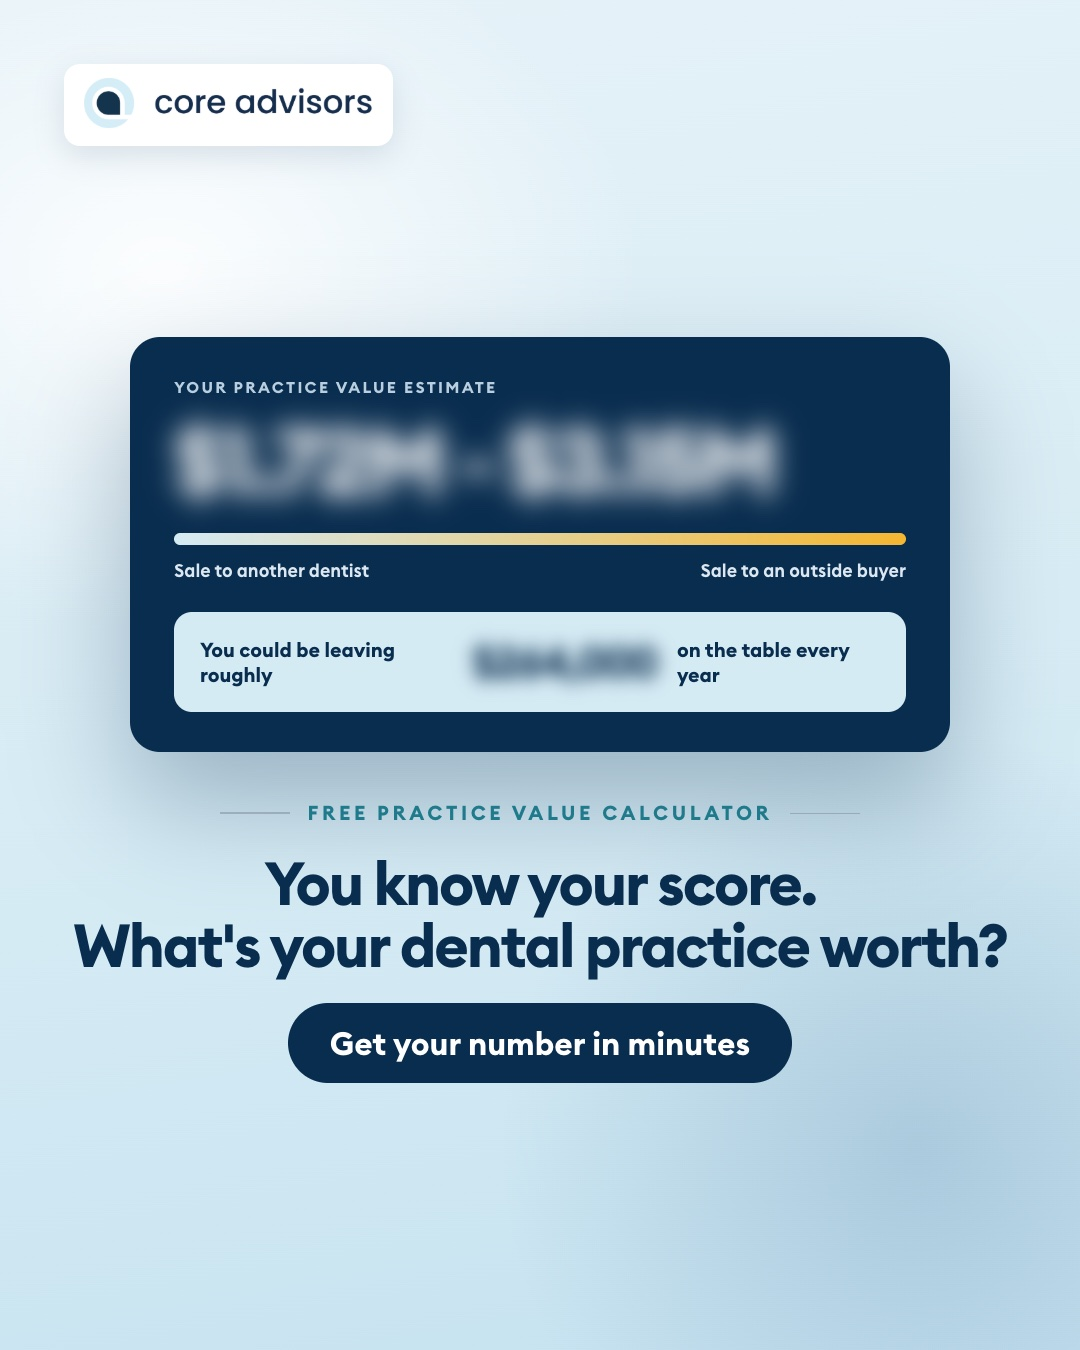
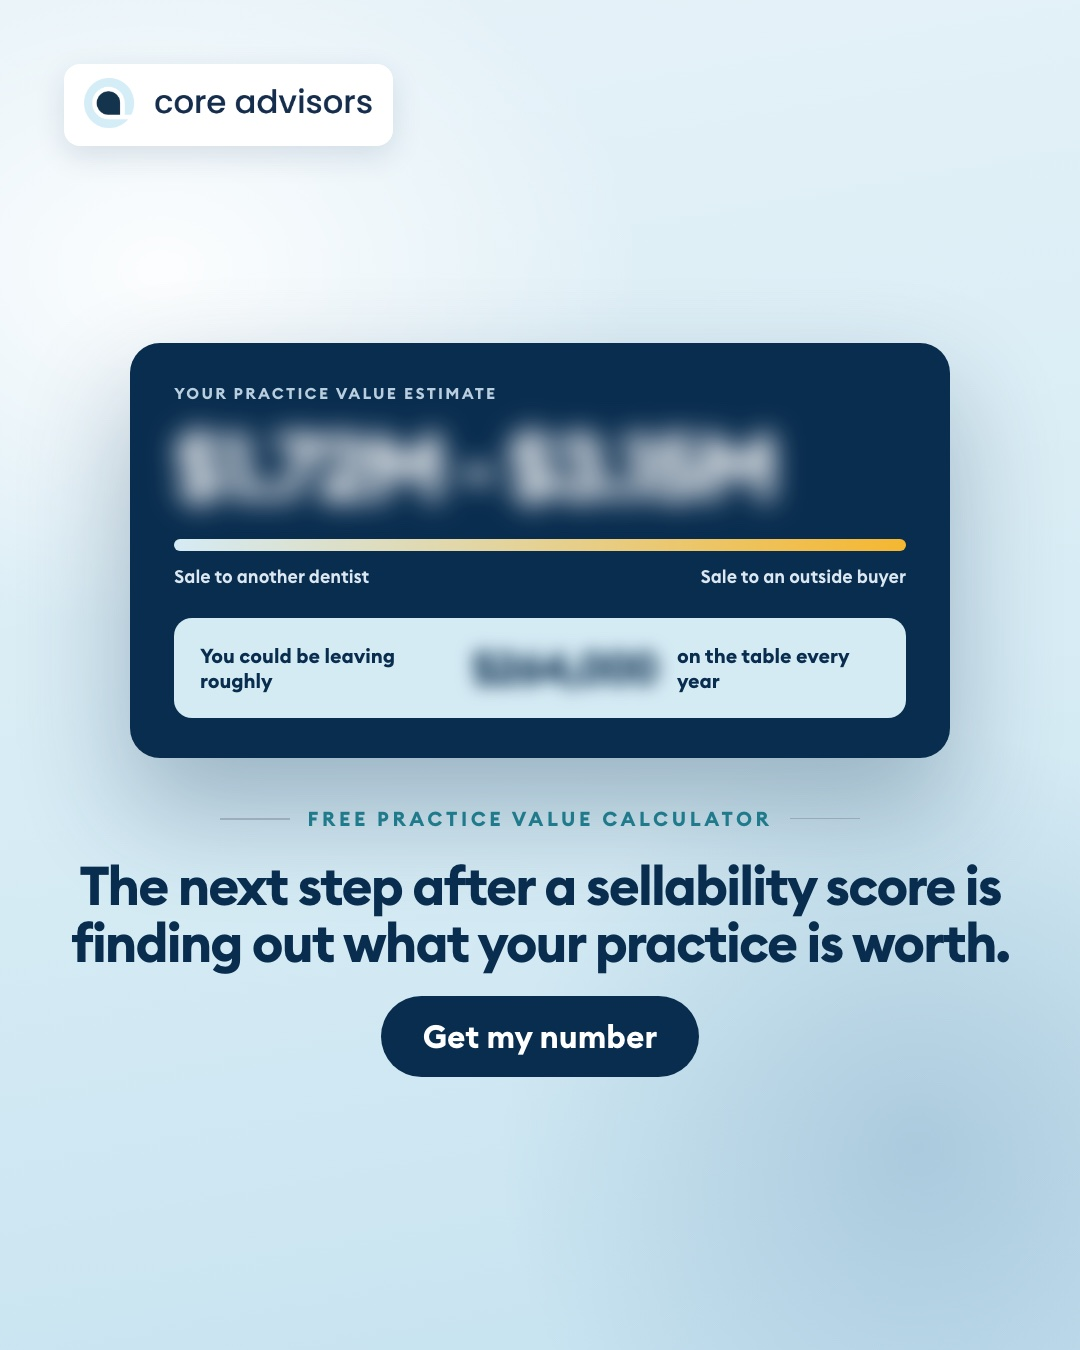
Core Advisors exit ads: rewritten copy on art and in posts, no ad badges

Changed region(s): [[0.1222, 0.2489, 0.8861, 0.56], [0.0611, 0.5911, 0.9472, 0.8089]]

diff --git a/core-advisors/meta-exit-planning-ads/index.html b/core-advisors/meta-exit-planning-ads/index.html
@@ -54,100 +54,91 @@ body{background:var(--fbbg);color:var(--ink);font-family:-apple-system,BlinkMacS
 <div class="title"><b>Core Advisors · Exit planning ads</b>How the nine ads will look in the Facebook feed. Tap "See more" to read the full text.</div>
 <div class="post filler" aria-hidden="true"><div class="ph"><span class="fav"></span><span><i style="width:110px"></i><i style="width:60px"></i></span></div>
 <div class="lines"><i style="width:72%"></i><i style="width:52%"></i></div><div class="fimg f0"></div><div class="bar"></div></div>
-<div class="tag">S0 · Sellability</div>
 <article class="post ad" id="s0">
 <div class="ph"><span class="av"><img src="img/logo-white.png" alt=""></span><span class="who"><b>Core Advisors</b><small>Sponsored · <svg viewBox="0 0 16 16" width="11" height="11"><circle cx="8" cy="8" r="6.5" fill="none" stroke="currentColor" stroke-width="1.4"/><path d="M1.5 8h13M8 1.5c2 2 2 11 0 13M8 1.5c-2 2-2 11 0 13" fill="none" stroke="currentColor" stroke-width="1.2"/></svg></small></span><span class="dots">···</span></div>
-<p class="primary"><span class="short">Two practices can carry the same price tag. Buyers still pick one and pass on the other. Ten questions about how... <button class="more" type="button">See more</button></span><span class="full">Two practices can carry the same price tag. Buyers still pick one and pass on the other. Ten questions about how yours runs, not what it earns, show you what a buyer sees and the first three things to fix. It takes about two minutes.</span></p>
+<p class="primary"><span class="short">When you sell a house, a realtor walks through and points out the few things that will bring in more offers. Selling... <button class="more" type="button">See more</button></span><span class="full">When you sell a house, a realtor walks through and points out the few things that will bring in more offers. Selling a practice works the same way. A buyer will look at whether your team can run a day without you and whether your referrals come to you or to the practice. Our free check walks you through what they look at and shows you the first three things we&#x27;d fix, so you have time to fix them before you sell.</span></p>
 <img class="creative" src="img/S0-two-chairs-one-offer-1080x1350.jpg" alt="S0 ad creative" loading="lazy">
-<div class="link"><div><small>COREADVISORS.COM</small><b>Would a buyer choose yours?</b></div><span class="btn">Learn more</span></div>
+<div class="link"><div><small>COREADVISORS.COM</small><b>What would a buyer want you to fix?</b></div><span class="btn">Learn more</span></div>
 <div class="reacts"><span><em class="r1"></em><em class="r2"></em> 24</span><span>3 comments · 2 shares</span></div>
 <div class="acts"><span>👍 Like</span><span>💬 Comment</span><span>↗ Share</span></div>
 </article>
 <div class="post filler" aria-hidden="true"><div class="ph"><span class="fav"></span><span><i style="width:117px"></i><i style="width:60px"></i></span></div>
 <div class="lines"><i style="width:88%"></i><i style="width:68%"></i></div><div class="fimg f1"></div><div class="bar"></div></div>
-<div class="tag">S1 · Sellability</div>
 <article class="post ad" id="s1">
 <div class="ph"><span class="av"><img src="img/logo-white.png" alt=""></span><span class="who"><b>Core Advisors</b><small>Sponsored · <svg viewBox="0 0 16 16" width="11" height="11"><circle cx="8" cy="8" r="6.5" fill="none" stroke="currentColor" stroke-width="1.4"/><path d="M1.5 8h13M8 1.5c2 2 2 11 0 13M8 1.5c-2 2-2 11 0 13" fill="none" stroke="currentColor" stroke-width="1.2"/></svg></small></span><span class="dots">···</span></div>
-<p class="primary"><span class="short">Two practices can carry the same price tag. Buyers still pick one and pass on the other. Ten questions about how... <button class="more" type="button">See more</button></span><span class="full">Two practices can carry the same price tag. Buyers still pick one and pass on the other. Ten questions about how yours runs, not what it earns, show you what a buyer sees and the first three things to fix. It takes about two minutes.</span></p>
+<p class="primary"><span class="short">A buyer usually pays a set multiple of your profit, so the real question is whether they choose your practice or the... <button class="more" type="button">See more</button></span><span class="full">A buyer usually pays a set multiple of your profit, so the real question is whether they choose your practice or the one down the road. That choice comes down to how your practice runs, and most of it can be improved years before you sell. Our free check gives you a score out of 100 in about two minutes, along with the first three things we&#x27;d work on.</span></p>
 <img class="creative" src="img/S1-three-practices-1080x1350.jpg" alt="S1 ad creative" loading="lazy">
-<div class="link"><div><small>COREADVISORS.COM</small><b>Would a buyer choose yours?</b></div><span class="btn">Learn more</span></div>
+<div class="link"><div><small>COREADVISORS.COM</small><b>Would a buyer pick your practice?</b></div><span class="btn">Learn more</span></div>
 <div class="reacts"><span><em class="r1"></em><em class="r2"></em> 24</span><span>3 comments · 2 shares</span></div>
 <div class="acts"><span>👍 Like</span><span>💬 Comment</span><span>↗ Share</span></div>
 </article>
 <div class="post filler" aria-hidden="true"><div class="ph"><span class="fav"></span><span><i style="width:124px"></i><i style="width:60px"></i></span></div>
 <div class="lines"><i style="width:64%"></i><i style="width:44%"></i></div><div class="fimg f2"></div><div class="bar"></div></div>
-<div class="tag">S3 · Sellability</div>
 <article class="post ad" id="s3">
 <div class="ph"><span class="av"><img src="img/logo-white.png" alt=""></span><span class="who"><b>Core Advisors</b><small>Sponsored · <svg viewBox="0 0 16 16" width="11" height="11"><circle cx="8" cy="8" r="6.5" fill="none" stroke="currentColor" stroke-width="1.4"/><path d="M1.5 8h13M8 1.5c2 2 2 11 0 13M8 1.5c-2 2-2 11 0 13" fill="none" stroke="currentColor" stroke-width="1.2"/></svg></small></span><span class="dots">···</span></div>
-<p class="primary"><span class="short">Two practices can carry the same price tag. Buyers still pick one and pass on the other. Ten questions about how... <button class="more" type="button">See more</button></span><span class="full">Two practices can carry the same price tag. Buyers still pick one and pass on the other. Ten questions about how yours runs, not what it earns, show you what a buyer sees and the first three things to fix. It takes about two minutes.</span></p>
+<p class="primary"><span class="short">Before a buyer makes an offer, they want to know whether the schedule stays full when you&#x27;re away and whether your... <button class="more" type="button">See more</button></span><span class="full">Before a buyer makes an offer, they want to know whether the schedule stays full when you&#x27;re away and whether your referrals would follow you out the door. Our free check asks you the same questions a buyer will and shows you where your practice stands today.</span></p>
 <img class="creative" src="img/S3-buyers-checklist-1080x1350.jpg" alt="S3 ad creative" loading="lazy">
-<div class="link"><div><small>COREADVISORS.COM</small><b>Would a buyer choose yours?</b></div><span class="btn">Learn more</span></div>
+<div class="link"><div><small>COREADVISORS.COM</small><b>See what a buyer will ask you</b></div><span class="btn">Learn more</span></div>
 <div class="reacts"><span><em class="r1"></em><em class="r2"></em> 24</span><span>3 comments · 2 shares</span></div>
 <div class="acts"><span>👍 Like</span><span>💬 Comment</span><span>↗ Share</span></div>
 </article>
 <div class="post filler" aria-hidden="true"><div class="ph"><span class="fav"></span><span><i style="width:131px"></i><i style="width:60px"></i></span></div>
 <div class="lines"><i style="width:72%"></i><i style="width:52%"></i></div><div class="fimg f0"></div><div class="bar"></div></div>
-<div class="tag">V0 · Value</div>
 <article class="post ad" id="v0">
 <div class="ph"><span class="av"><img src="img/logo-white.png" alt=""></span><span class="who"><b>Core Advisors</b><small>Sponsored · <svg viewBox="0 0 16 16" width="11" height="11"><circle cx="8" cy="8" r="6.5" fill="none" stroke="currentColor" stroke-width="1.4"/><path d="M1.5 8h13M8 1.5c2 2 2 11 0 13M8 1.5c-2 2-2 11 0 13" fill="none" stroke="currentColor" stroke-width="1.2"/></svg></small></span><span class="dots">···</span></div>
-<p class="primary"><span class="short">Most owners guess what their practice is worth. Five numbers from your P&amp;L give you a range, because who buys it... <button class="more" type="button">See more</button></span><span class="full">Most owners guess what their practice is worth. Five numbers from your P&amp;L give you a range, because who buys it changes what they&#x27;ll pay. It takes about two minutes, and it was built by CPAs who only work with dentists.</span></p>
+<p class="primary"><span class="short">Selling to an associate or another dentist usually brings one price, and selling to a DSO or an outside buyer usually... <button class="more" type="button">See more</button></span><span class="full">Selling to an associate or another dentist usually brings one price, and selling to a DSO or an outside buyer usually brings another. The gap between the two can be large, and it helps to know it years before an offer arrives. Our free calculator shows you both ends of your range in about two minutes, so you can plan for the sale you want.</span></p>
 <img class="creative" src="img/V0-two-chairs-two-prices-1080x1350.jpg" alt="V0 ad creative" loading="lazy">
-<div class="link"><div><small>COREADVISORS.COM</small><b>What&#x27;s your practice worth?</b></div><span class="btn">Learn more</span></div>
+<div class="link"><div><small>COREADVISORS.COM</small><b>Know your number before a buyer names it</b></div><span class="btn">Learn more</span></div>
 <div class="reacts"><span><em class="r1"></em><em class="r2"></em> 24</span><span>3 comments · 2 shares</span></div>
 <div class="acts"><span>👍 Like</span><span>💬 Comment</span><span>↗ Share</span></div>
 </article>
 <div class="post filler" aria-hidden="true"><div class="ph"><span class="fav"></span><span><i style="width:138px"></i><i style="width:60px"></i></span></div>
 <div class="lines"><i style="width:88%"></i><i style="width:68%"></i></div><div class="fimg f1"></div><div class="bar"></div></div>
-<div class="tag">V1 · Value</div>
 <article class="post ad" id="v1">
 <div class="ph"><span class="av"><img src="img/logo-white.png" alt=""></span><span class="who"><b>Core Advisors</b><small>Sponsored · <svg viewBox="0 0 16 16" width="11" height="11"><circle cx="8" cy="8" r="6.5" fill="none" stroke="currentColor" stroke-width="1.4"/><path d="M1.5 8h13M8 1.5c2 2 2 11 0 13M8 1.5c-2 2-2 11 0 13" fill="none" stroke="currentColor" stroke-width="1.2"/></svg></small></span><span class="dots">···</span></div>
-<p class="primary"><span class="short">Most owners guess what their practice is worth. Five numbers from your P&amp;L give you a range, because who buys it... <button class="more" type="button">See more</button></span><span class="full">Most owners guess what their practice is worth. Five numbers from your P&amp;L give you a range, because who buys it changes what they&#x27;ll pay. It takes about two minutes, and it was built by CPAs who only work with dentists.</span></p>
+<p class="primary"><span class="short">A buyer prices your practice on the profit it keeps, so every extra dollar of margin is worth several dollars on the... <button class="more" type="button">See more</button></span><span class="full">A buyer prices your practice on the profit it keeps, so every extra dollar of margin is worth several dollars on the day you sell. Our free calculator shows what your practice is worth today and what it could be worth at a higher margin. You&#x27;ll need five numbers from your P&amp;L.</span></p>
 <img class="creative" src="img/V1-of-every-100-1080x1350.jpg" alt="V1 ad creative" loading="lazy">
-<div class="link"><div><small>COREADVISORS.COM</small><b>What&#x27;s your practice worth?</b></div><span class="btn">Learn more</span></div>
+<div class="link"><div><small>COREADVISORS.COM</small><b>What is your profit worth to a buyer?</b></div><span class="btn">Learn more</span></div>
 <div class="reacts"><span><em class="r1"></em><em class="r2"></em> 24</span><span>3 comments · 2 shares</span></div>
 <div class="acts"><span>👍 Like</span><span>💬 Comment</span><span>↗ Share</span></div>
 </article>
 <div class="post filler" aria-hidden="true"><div class="ph"><span class="fav"></span><span><i style="width:145px"></i><i style="width:60px"></i></span></div>
 <div class="lines"><i style="width:64%"></i><i style="width:44%"></i></div><div class="fimg f2"></div><div class="bar"></div></div>
-<div class="tag">V2 · Value</div>
 <article class="post ad" id="v2">
 <div class="ph"><span class="av"><img src="img/logo-white.png" alt=""></span><span class="who"><b>Core Advisors</b><small>Sponsored · <svg viewBox="0 0 16 16" width="11" height="11"><circle cx="8" cy="8" r="6.5" fill="none" stroke="currentColor" stroke-width="1.4"/><path d="M1.5 8h13M8 1.5c2 2 2 11 0 13M8 1.5c-2 2-2 11 0 13" fill="none" stroke="currentColor" stroke-width="1.2"/></svg></small></span><span class="dots">···</span></div>
-<p class="primary"><span class="short">Most owners guess what their practice is worth. Five numbers from your P&amp;L give you a range, because who buys it... <button class="more" type="button">See more</button></span><span class="full">Most owners guess what their practice is worth. Five numbers from your P&amp;L give you a range, because who buys it changes what they&#x27;ll pay. It takes about two minutes, and it was built by CPAs who only work with dentists.</span></p>
+<p class="primary"><span class="short">We only work with dentists, and one of the first questions owners ask us is what their practice would sell for. The... <button class="more" type="button">See more</button></span><span class="full">We only work with dentists, and one of the first questions owners ask us is what their practice would sell for. The honest answer is that it depends on who&#x27;s buying. Our free calculator gives you a range for both kinds of buyer from five numbers on your P&amp;L.</span></p>
 <img class="creative" src="img/V2-two-buyers-1080x1350.jpg" alt="V2 ad creative" loading="lazy">
-<div class="link"><div><small>COREADVISORS.COM</small><b>What&#x27;s your practice worth?</b></div><span class="btn">Learn more</span></div>
+<div class="link"><div><small>COREADVISORS.COM</small><b>Find out what each buyer would pay</b></div><span class="btn">Learn more</span></div>
 <div class="reacts"><span><em class="r1"></em><em class="r2"></em> 24</span><span>3 comments · 2 shares</span></div>
 <div class="acts"><span>👍 Like</span><span>💬 Comment</span><span>↗ Share</span></div>
 </article>
 <div class="post filler" aria-hidden="true"><div class="ph"><span class="fav"></span><span><i style="width:112px"></i><i style="width:60px"></i></span></div>
 <div class="lines"><i style="width:72%"></i><i style="width:52%"></i></div><div class="fimg f0"></div><div class="bar"></div></div>
-<div class="tag">V3 · Value</div>
 <article class="post ad" id="v3">
 <div class="ph"><span class="av"><img src="img/logo-white.png" alt=""></span><span class="who"><b>Core Advisors</b><small>Sponsored · <svg viewBox="0 0 16 16" width="11" height="11"><circle cx="8" cy="8" r="6.5" fill="none" stroke="currentColor" stroke-width="1.4"/><path d="M1.5 8h13M8 1.5c2 2 2 11 0 13M8 1.5c-2 2-2 11 0 13" fill="none" stroke="currentColor" stroke-width="1.2"/></svg></small></span><span class="dots">···</span></div>
-<p class="primary"><span class="short">Most owners guess what their practice is worth. Five numbers from your P&amp;L give you a range, because who buys it... <button class="more" type="button">See more</button></span><span class="full">Most owners guess what their practice is worth. Five numbers from your P&amp;L give you a range, because who buys it changes what they&#x27;ll pay. It takes about two minutes, and it was built by CPAs who only work with dentists.</span></p>
+<p class="primary"><span class="short">A buyer pays a multiple of your profit, so every extra dollar you keep is worth several dollars when you sell. Our... <button class="more" type="button">See more</button></span><span class="full">A buyer pays a multiple of your profit, so every extra dollar you keep is worth several dollars when you sell. Our free calculator shows your value today, then lets you drag your profit margin up to see how the number moves. It&#x27;s a quick way to see where the money is in your practice.</span></p>
 <img class="creative" src="img/V3-the-slider-1080x1350.jpg" alt="V3 ad creative" loading="lazy">
-<div class="link"><div><small>COREADVISORS.COM</small><b>What&#x27;s your practice worth?</b></div><span class="btn">Learn more</span></div>
+<div class="link"><div><small>COREADVISORS.COM</small><b>See what a higher margin is worth</b></div><span class="btn">Learn more</span></div>
 <div class="reacts"><span><em class="r1"></em><em class="r2"></em> 24</span><span>3 comments · 2 shares</span></div>
 <div class="acts"><span>👍 Like</span><span>💬 Comment</span><span>↗ Share</span></div>
 </article>
 <div class="post filler" aria-hidden="true"><div class="ph"><span class="fav"></span><span><i style="width:119px"></i><i style="width:60px"></i></span></div>
 <div class="lines"><i style="width:88%"></i><i style="width:68%"></i></div><div class="fimg f1"></div><div class="bar"></div></div>
-<div class="tag">R1 · Retargeting · finished the sellability check</div>
 <article class="post ad" id="r1">
 <div class="ph"><span class="av"><img src="img/logo-white.png" alt=""></span><span class="who"><b>Core Advisors</b><small>Sponsored · <svg viewBox="0 0 16 16" width="11" height="11"><circle cx="8" cy="8" r="6.5" fill="none" stroke="currentColor" stroke-width="1.4"/><path d="M1.5 8h13M8 1.5c2 2 2 11 0 13M8 1.5c-2 2-2 11 0 13" fill="none" stroke="currentColor" stroke-width="1.2"/></svg></small></span><span class="dots">···</span></div>
-<p class="primary"><span class="short">Most owners guess what their practice is worth. Five numbers from your P&amp;L give you a range, because who buys it... <button class="more" type="button">See more</button></span><span class="full">Most owners guess what their practice is worth. Five numbers from your P&amp;L give you a range, because who buys it changes what they&#x27;ll pay. It takes about two minutes, and it was built by CPAs who only work with dentists.</span></p>
+<p class="primary"><span class="short">Our free value calculator turns five numbers from your P&amp;L into a range, from a sale to another dentist up to a sale... <button class="more" type="button">See more</button></span><span class="full">Our free value calculator turns five numbers from your P&amp;L into a range, from a sale to another dentist up to a sale to an outside buyer. Put it next to your sellability score and you&#x27;ll know where to start.</span></p>
 <img class="creative" src="img/R1-retarget-to-value-1080x1350.jpg" alt="R1 ad creative" loading="lazy">
-<div class="link"><div><small>COREADVISORS.COM</small><b>What&#x27;s your practice worth?</b></div><span class="btn">Learn more</span></div>
+<div class="link"><div><small>COREADVISORS.COM</small><b>What is your practice worth?</b></div><span class="btn">Learn more</span></div>
 <div class="reacts"><span><em class="r1"></em><em class="r2"></em> 24</span><span>3 comments · 2 shares</span></div>
 <div class="acts"><span>👍 Like</span><span>💬 Comment</span><span>↗ Share</span></div>
 </article>
 <div class="post filler" aria-hidden="true"><div class="ph"><span class="fav"></span><span><i style="width:126px"></i><i style="width:60px"></i></span></div>
 <div class="lines"><i style="width:64%"></i><i style="width:44%"></i></div><div class="fimg f2"></div><div class="bar"></div></div>
-<div class="tag">R2 · Retargeting · finished the value calculator</div>
 <article class="post ad" id="r2">
 <div class="ph"><span class="av"><img src="img/logo-white.png" alt=""></span><span class="who"><b>Core Advisors</b><small>Sponsored · <svg viewBox="0 0 16 16" width="11" height="11"><circle cx="8" cy="8" r="6.5" fill="none" stroke="currentColor" stroke-width="1.4"/><path d="M1.5 8h13M8 1.5c2 2 2 11 0 13M8 1.5c-2 2-2 11 0 13" fill="none" stroke="currentColor" stroke-width="1.2"/></svg></small></span><span class="dots">···</span></div>
-<p class="primary"><span class="short">Two practices can carry the same price tag. Buyers still pick one and pass on the other. Ten questions about how... <button class="more" type="button">See more</button></span><span class="full">Two practices can carry the same price tag. Buyers still pick one and pass on the other. Ten questions about how yours runs, not what it earns, show you what a buyer sees and the first three things to fix. It takes about two minutes.</span></p>
+<p class="primary"><span class="short">A value range only holds up if a buyer wants the practice. One owner we know went to a DSO before the practice could... <button class="more" type="button">See more</button></span><span class="full">A value range only holds up if a buyer wants the practice. One owner we know went to a DSO before the practice could run without him, and it went badly. Our free check asks the questions a buyer will ask and shows you the first three things we&#x27;d fix, so you&#x27;re ready when the time comes.</span></p>
 <img class="creative" src="img/R2-retarget-to-sellability-1080x1350.jpg" alt="R2 ad creative" loading="lazy">
-<div class="link"><div><small>COREADVISORS.COM</small><b>Would a buyer choose yours?</b></div><span class="btn">Learn more</span></div>
+<div class="link"><div><small>COREADVISORS.COM</small><b>Is your practice ready for a buyer?</b></div><span class="btn">Learn more</span></div>
 <div class="reacts"><span><em class="r1"></em><em class="r2"></em> 24</span><span>3 comments · 2 shares</span></div>
 <div class="acts"><span>👍 Like</span><span>💬 Comment</span><span>↗ Share</span></div>
 </article>
